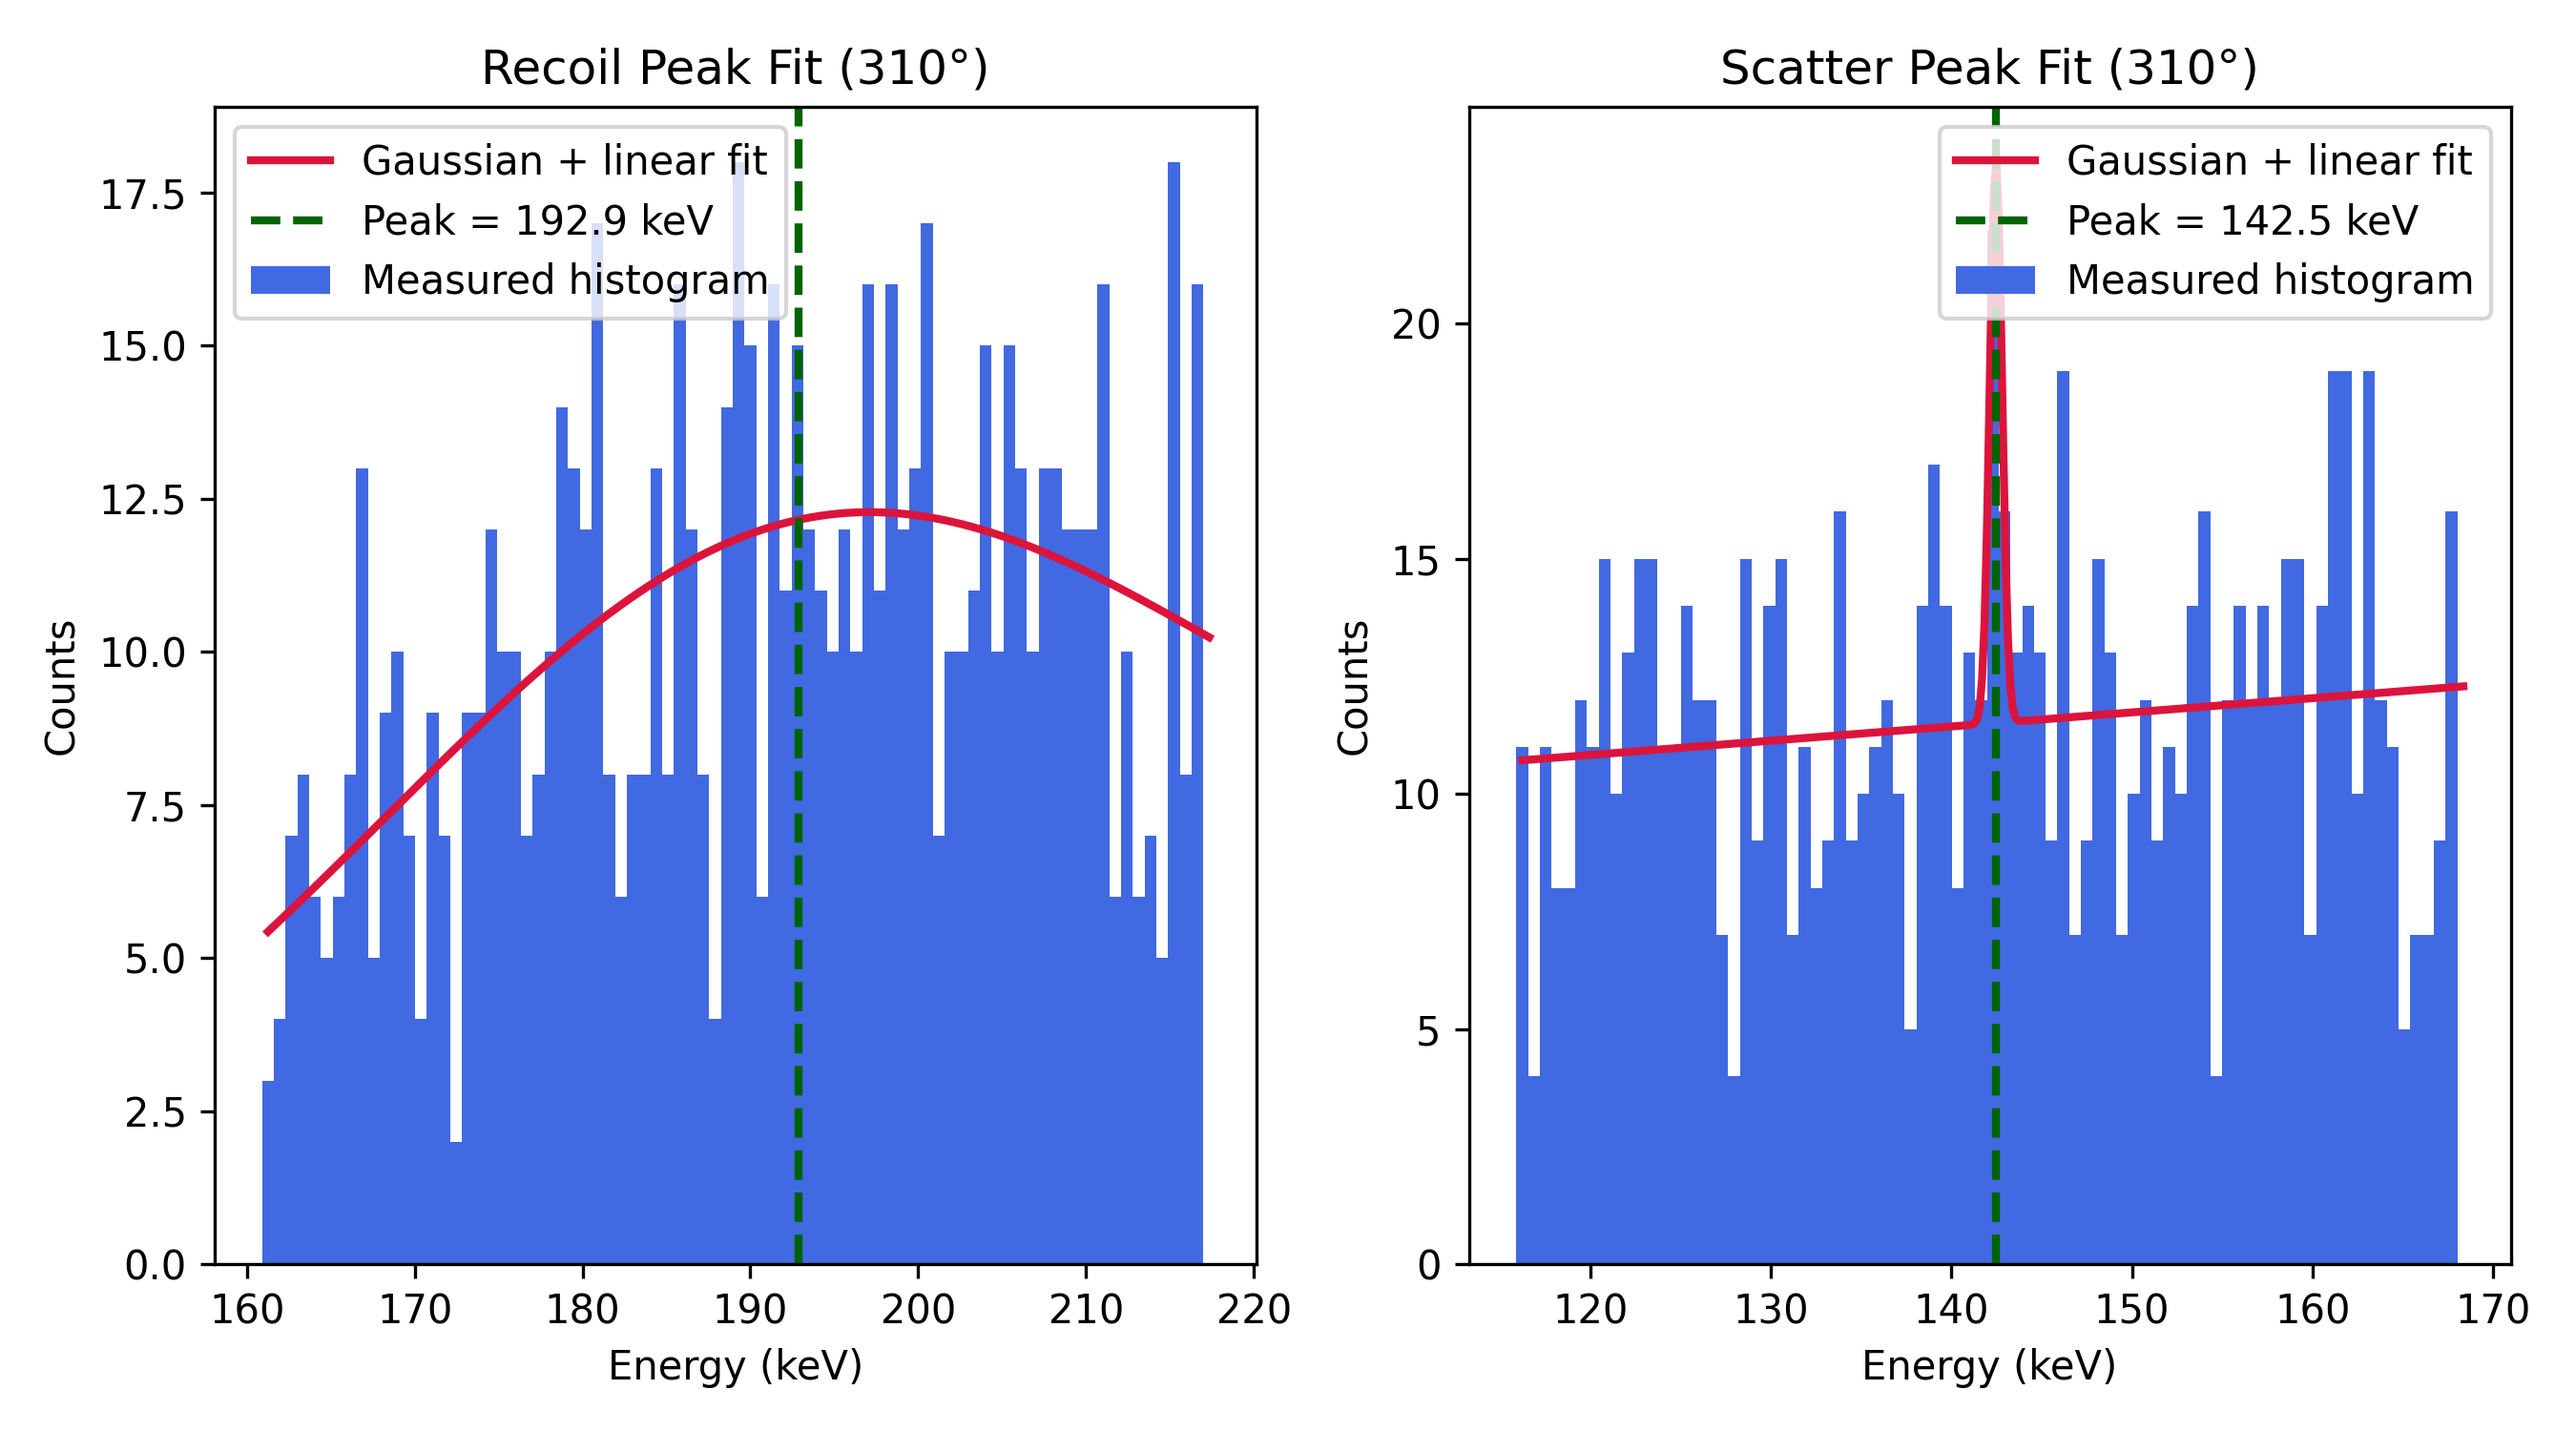
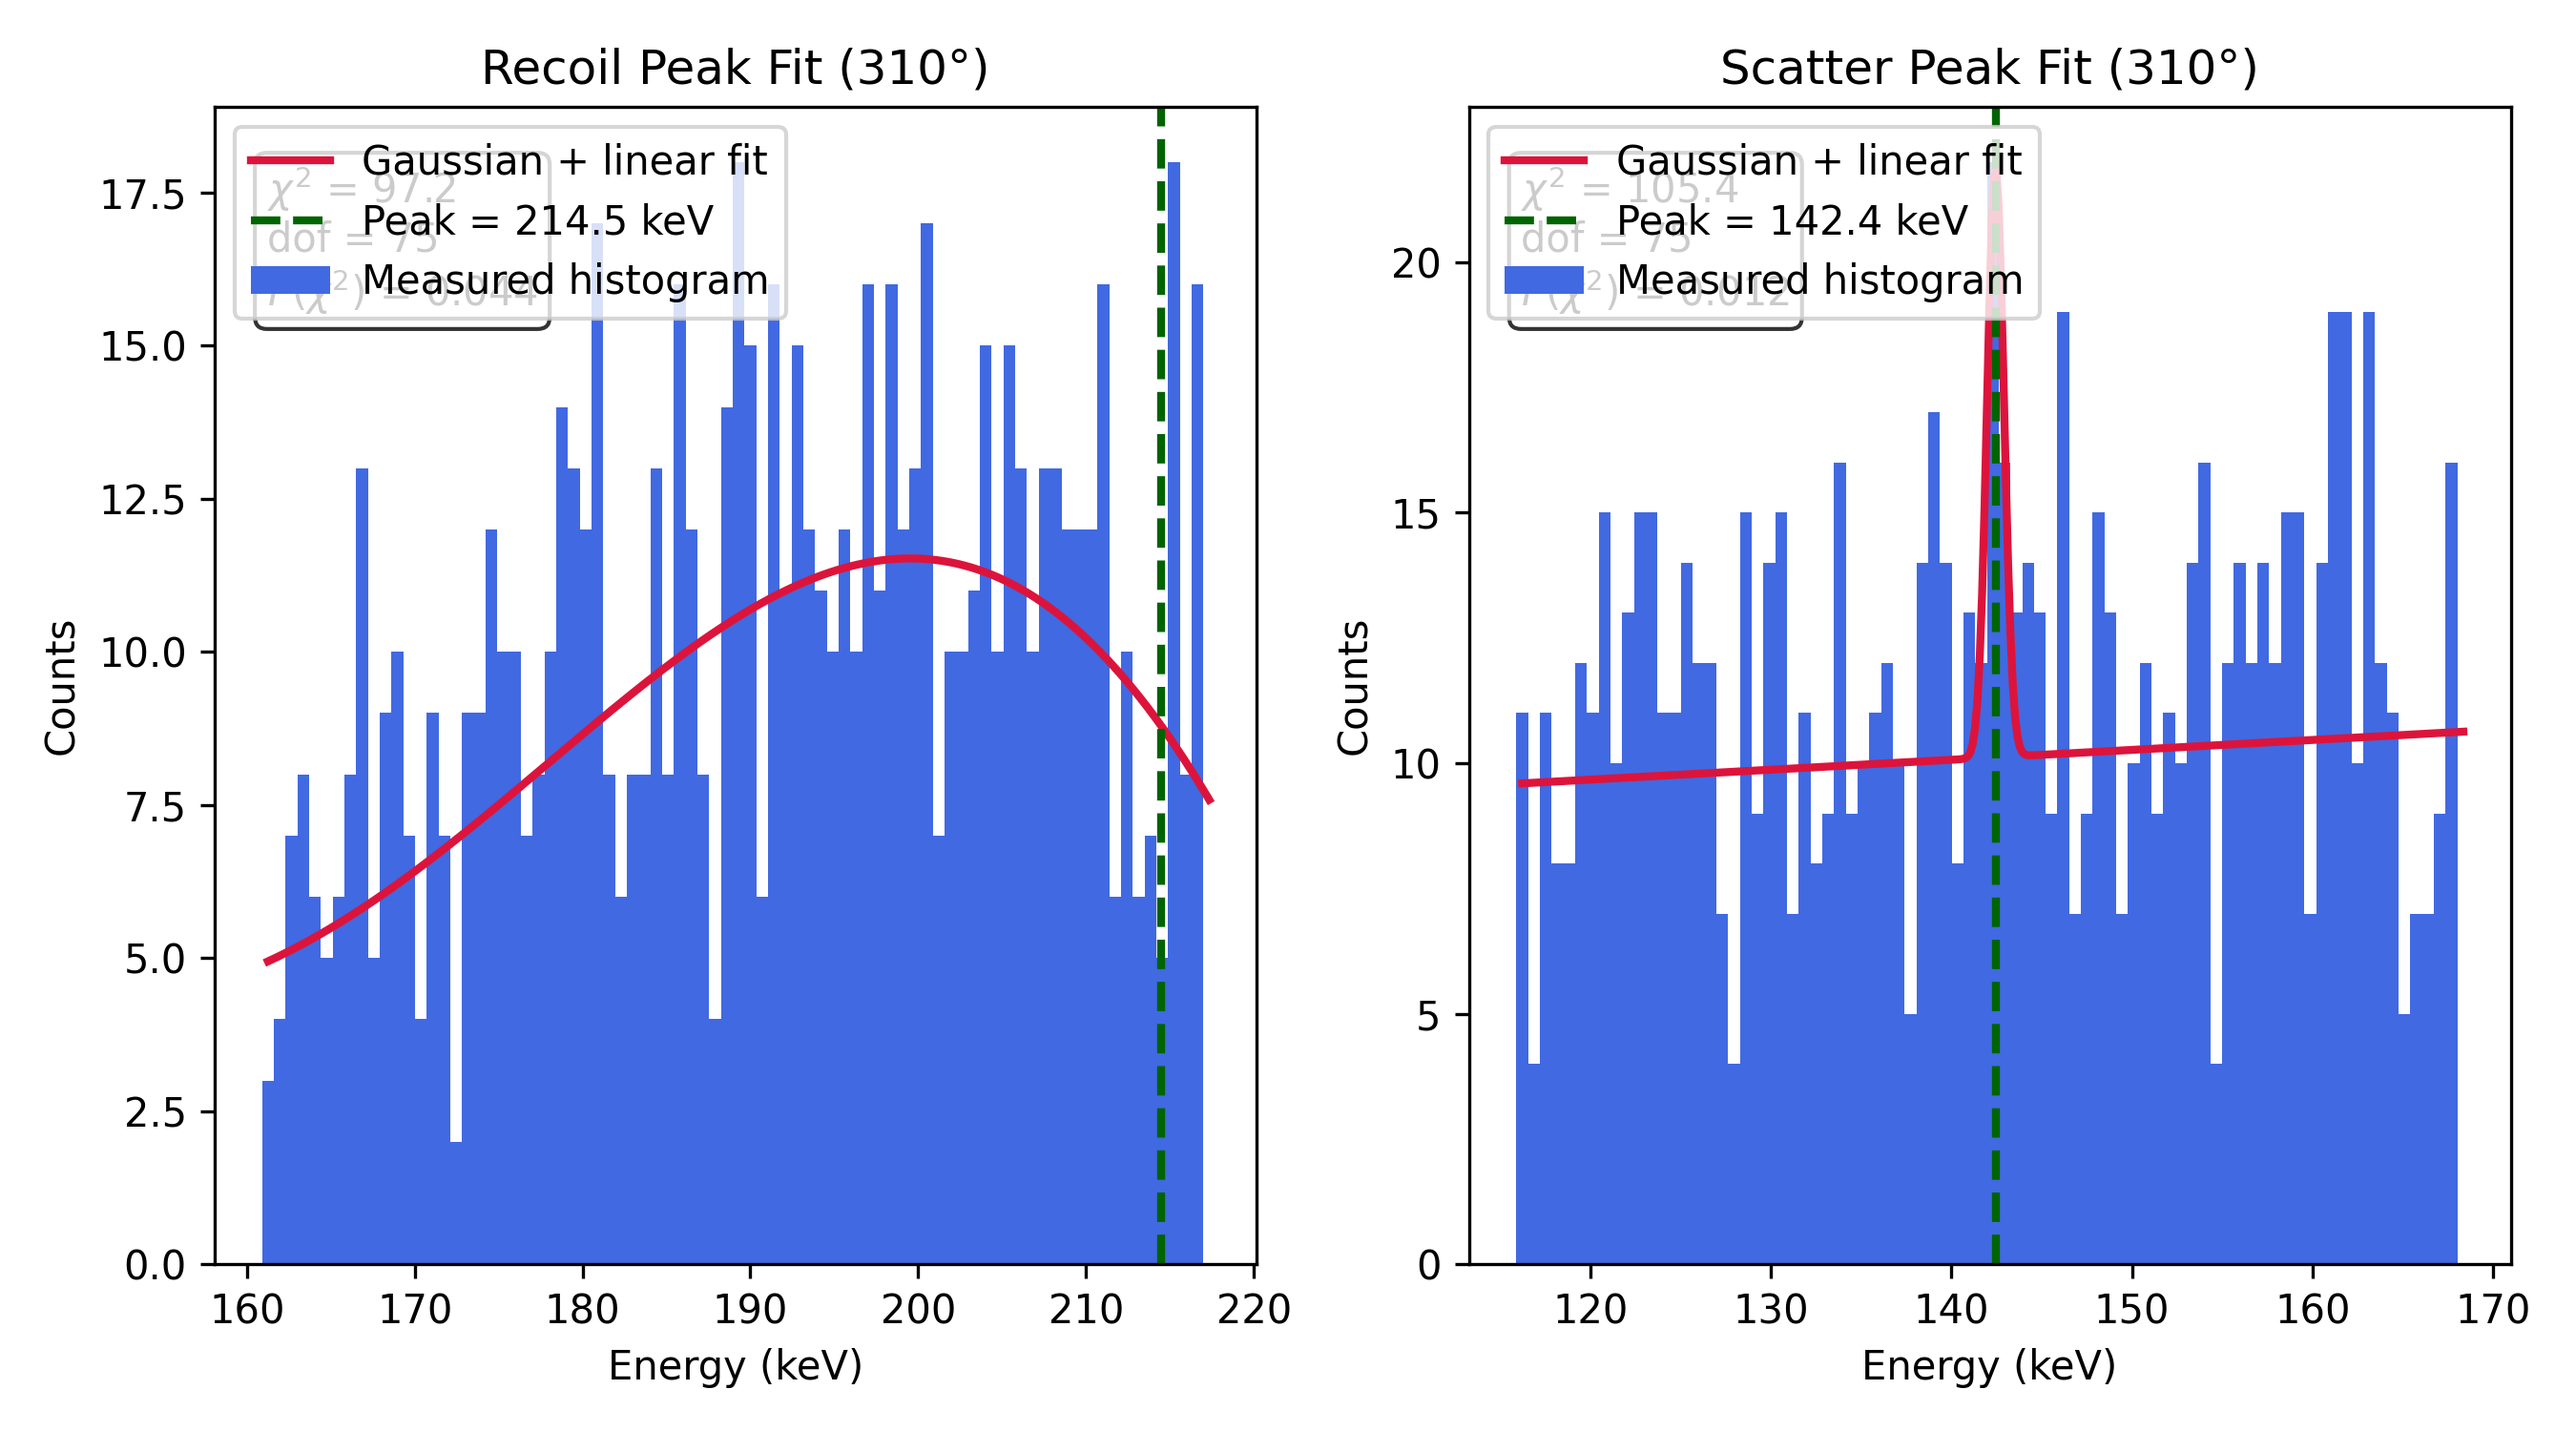
energy sums in analysis

diff --git a/03-10/analysis.py b/03-10/analysis.py
@@ -113,7 +113,7 @@ def fit_peak(hist, window=40):
 
     uncertainties = np.sqrt(y)
 
-    popt, pcov = curve_fit(gaussian_linear, x, y, p0=p0, sigma=uncertainties, absolute_sigma=True)
+    popt, pcov = curve_fit(gaussian_linear, x, y, p0=p0, sigma=uncertainties, absolute_sigma=True, maxfev=10000)
 
     A, mu, sigma, m, b = popt
 
@@ -317,6 +317,15 @@ plt.axhline(
     linestyle="--",
     label="Expected (662 keV)"
 )
+
+plt.axhline(
+    np.mean(energy_sums),
+    color="blue",
+    linestyle="--",
+    label="Mean Energy Sum"
+)
+
+print(f"Mean energy sum (keV): {np.mean(energy_sums):.1f}")
 
 plt.xlabel("Scattering Angle (degrees)")
 plt.ylabel("Scatter + Recoil Energy (keV)")
